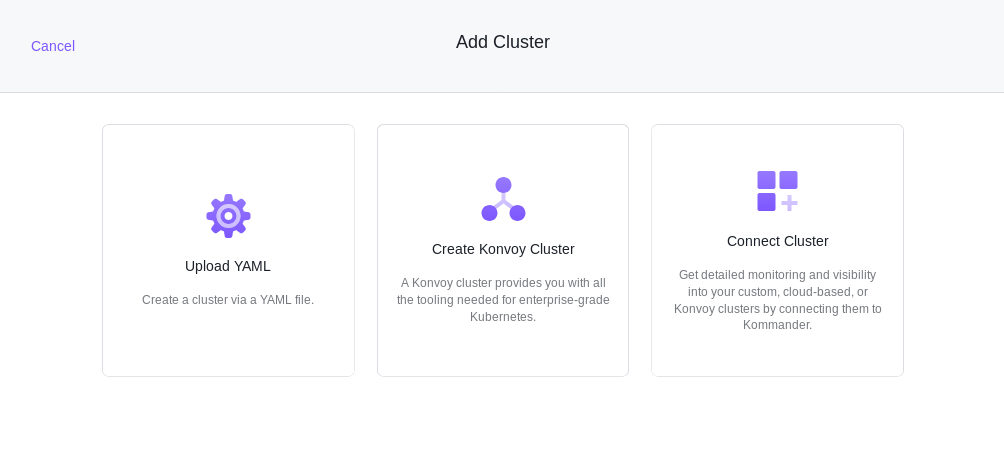
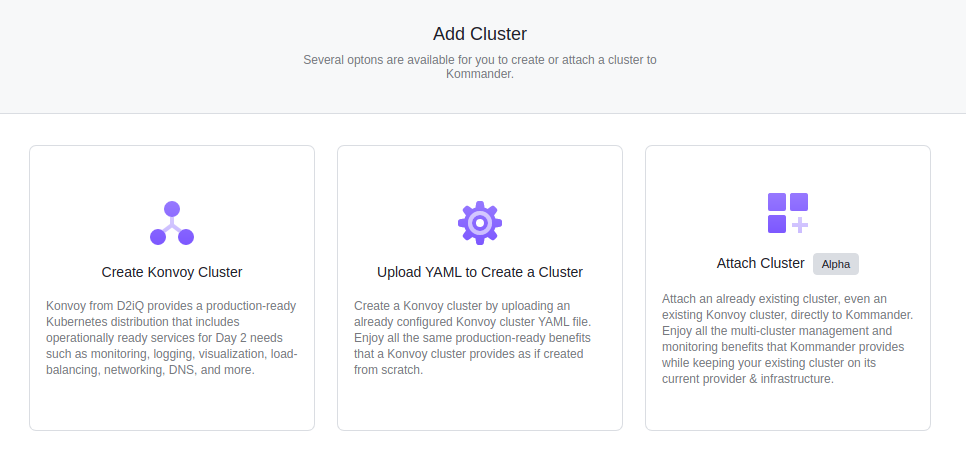
feat: cluster create breakout: aws, azure, on-prem

diff --git a/pages/ksphere/kommander/latest/clusters/index.md b/pages/ksphere/kommander/latest/clusters/index.md
@@ -14,25 +14,17 @@ From the dashboard page or the clusters page, click Add Cluster and Create Konvo
 
 ![Add Cluster Options](../../img/add-cluster.png)
 
+### Creating a Konvoy Cluster
+
+- [Creating Konvoy Clusters on AWS](/ksphere/kommander/latest/clusters/creating-konvoy-cluster-aws/)
+- [Creating Konvoy Clusters on Azure](/ksphere/kommander/latest/clusters/creating-konvoy-cluster-azure/)
+- [Creating Konvoy Clusters on your own infrastructure](/ksphere/kommander/latest/clusters/creating-konvoy-cluster-on-prem/)
+
 ### Connecting an Existing Cluster
 
-Clicking the Connect Cluster option will reveal a UI that accepts a kubeconfig file that you may either paste or upload into the form. You can select the intended context from the Context select list or change the display name provided with the config. Add labels to classify your cluster. Cluster labels are matched to the selectors created for projects. Changing a cluster’s labels may add or remove the cluster from projects.
+Using the Add Cluster option, you can attach an already existing cluster, even an existing Konvoy cluster, directly to Kommander. Enjoy all the multi-cluster management and monitoring benefits that Kommander provides while keeping your existing cluster on its current provider & infrastructure.
 
-![Add Cluster Connect](../../img/add-cluster-connect.png)
-
-### Creating a Konvoy Cluster via Form
-
-Konvoy can create managed clusters using any configured cloud providers. See the [Operations Cloud Providers](../operations/cloud-providers) section in order to start creating Konvoy clusters.
-
-You'll notice in the Create Konvoy Cluster form a variety of options for creating a cluster in your chosen cloud provider:
-
-- **Kubernetes Version**: Indicates the version of Kubernetes to install on the cluster.
-- **Select Provider**: Choose the cloud provider credentials to use to provision the cluster.
-- **Region/Availability Zones**: Indicates the datacenter regions and availability zones to use for cluster provisioning
-- **Name**: A display name for referencing the cluster
-- **Node Pool Config**: Allows you to specify pools of nodes, their size, and quantity. By default, a control plane pool containing 3 large nodes and a worker pool containing 4 xlarge nodes are suggested by default. Additionally, you can specify labels and node taints as part of each pool.
-- **Add Labels**: By default, your cluster will have some suggested labels applied to it that reflect the cloud provider provisioning. For example, in AWS your cluster may be labelled with the datacenter region as well as `provider: aws`. Cluster labels are matched to the selectors created for projects. Changing a cluster’s labels may add or remove the cluster from projects.
-- **Add Cloud Provider Tags**: Allows you specify tags to be set on all resources created in your cloud provider for this cluster. You can add up to 10 tags in this form. Different cloud providers have varying restrictions on their tags. See the [AWS Tags User Guide][aws_tags] for more information about using tags in AWS.
+See [Attach Cluster](/ksphere/kommander/latest/clusters/attach-cluster/)
 
 ### Creating a Konvoy Cluster via YAML
 
@@ -102,7 +94,7 @@ When you attach a cluster to Kommander that was not created with Kommander, you 
 For managed clusters created with Kommander, disconnecting the cluster is not an option, but it can be deleted. This completely removes the cluster and all of its cloud assets.
 
 <p class="message--warning"><strong>WARNING: </strong>
-If you delete the management (Konvoy) cluster, you won't be able to use Kommander to delete the managed clusters that were created by Kommander. Be sure and delete any managed clusters before finally deleting the Konvoy cluster if your intention is to delete all clusters. 
+If you delete the management (Konvoy) cluster, you won't be able to use Kommander to delete the managed clusters that were created by Kommander. Be sure and delete any managed clusters before finally deleting the Konvoy cluster if your intention is to delete all clusters.
 </p>
 
 ## Statuses

diff --git a/pages/ksphere/kommander/latest/clusters/creating-konvoy-cluster-azure/index.md b/pages/ksphere/kommander/latest/clusters/creating-konvoy-cluster-azure/index.md
@@ -1,0 +1,33 @@
+---
+layout: layout.pug
+navigationTitle: Creating Konvoy Clusters on Azure
+title: Creating Konvoy Clusters on Azure
+menuWeight: 7
+excerpt: A guide for creating Konvoy clusters on Azure
+---
+
+## Prerequisites
+
+Configured [Azure Cloud Provider](/ksphere/kommander/latest/operations/cloud-providers/#configuring-an-azure-cloud-provider)
+
+## Simplified Cluster Creation on Azure
+
+![Add Cluster Options](../../../img/add-cluster.png)
+
+From the Add Cluster menu, select the Create Konvoy Cluster and provide some basic cluster details:
+
+- **Workspace**: The workspace to which this cluster belongs
+- **Kubernetes Version**: Indicates the initial version of Kubernetes to install on the cluster.
+- **Name**: A display name for referencing the cluster
+
+Now select the preconfigured [Azure Cloud Provider](/ksphere/kommander/latest/operations/cloud-providers/#configuring-an-azure-cloud-provider) to display the remaining options that are specific to Azure.
+
+- **Region**: Select the datacenter region to reveal selectable Availability Zones. [Azure maintains multiple datacenters per region](azure-regions) to provide redundancy and availability.
+- **VNET Name**: A virtual network name in which to create this cluster.
+- **VNET Resource Group**: The resource group to which Azure assets will be assigned
+- **VNET Route Table**: HELP NEEDED
+- **Configure Node Pools**: Allows you to specify pools of nodes, their size, and quantity. By default, a control plane pool containing 3 Standard_DS3_v2 nodes and a worker pool containing 6 Standard_DS3_v2 nodes are suggested. Additionally, you can specify labels, node taints, and subnet ID's as part of each pool.
+- **Add Cloud Provider Tags**: Allows you specify tags to be set on all resources created in your cloud provider for this cluster. You can add up to 10 tags in this form. Different cloud providers have varying restrictions on their tags. See the [AWS Tags User Guide][aws_tags] for more information about using tags in AWS.
+- **Add Labels**: By default, your cluster will have some suggested labels applied to it that reflect the cloud provider provisioning. For example, in AWS your cluster may be labelled with the datacenter region as well as `provider: aws`. Cluster labels are matched to the selectors created for projects. Changing a cluster’s labels may add or remove the cluster from projects.
+
+[azure-regions]: https://azure.microsoft.com/en-us/global-infrastructure/regions/

diff --git a/pages/ksphere/kommander/latest/clusters/creating-konvoy-cluster-aws/index.md b/pages/ksphere/kommander/latest/clusters/creating-konvoy-cluster-aws/index.md
@@ -1,0 +1,33 @@
+---
+layout: layout.pug
+navigationTitle: Creating Konvoy Clusters on AWS
+title: Creating Konvoy Clusters on AWS
+menuWeight: 7
+excerpt: A guide for creating Konvoy clusters on AWS
+---
+
+## Prerequisites
+
+Configured [AWS Cloud Provider](/ksphere/kommander/latest/operations/cloud-providers/#configuring-an-aws-cloud-provider)
+
+## Simplified Cluster Creation on AWS
+
+![Add Cluster Options](../../../img/add-cluster.png)
+
+From the Add Cluster menu, select the Create Konvoy Cluster and provide some basic cluster details:
+
+- **Workspace**: The workspace to which this cluster belongs
+- **Kubernetes Version**: Indicates the initial version of Kubernetes to install on the cluster.
+- **Name**: A display name for referencing the cluster
+
+Now select the preconfigured [AWS Cloud Provider](/ksphere/kommander/latest/operations/cloud-providers/#configuring-an-aws-cloud-provider) to display the remaining options that are specific to AWS.
+
+- **Region**: Select the datacenter region to reveal selectable Availability Zones.
+- **Availability Zones**: Indicates the availability zones to use for cluster provisioning
+- **Configure Node Pools**: Allows you to specify pools of nodes, their size, and quantity. By default, a control plane pool containing 3 m5.xlarge nodes and a worker pool containing 4 m5.2xlarge nodes are suggested by default. Additionally, you can specify labels, node taints, and subnet ID's as part of each pool.
+- **Add Cloud Provider Tags**: Allows you specify tags to be set on all resources created in your cloud provider for this cluster. You can add up to 10 tags in this form. Different cloud providers have varying restrictions on their tags. See the [AWS Tags User Guide][aws_tags] for more information about using tags in AWS.
+- **Add Labels**: By default, your cluster will have some suggested labels applied to it that reflect the cloud provider provisioning. For example, in AWS your cluster may be labelled with the datacenter region as well as `provider: aws`. Cluster labels are matched to the selectors created for projects. Changing a cluster’s labels may add or remove the cluster from projects.
+
+[aws_tags]: https://docs.aws.amazon.com/AWSEC2/latest/UserGuide/Using_Tags.html
+
+Click the Continue button to begin provisioning the Konvoy cluster.

diff --git a/pages/ksphere/kommander/latest/clusters/attach-cluster/index.md b/pages/ksphere/kommander/latest/clusters/attach-cluster/index.md
@@ -1,0 +1,15 @@
+---
+layout: layout.pug
+navigationTitle: Attach Kubernetes Cluster
+title: Attach Cluster
+menuWeight: 7
+excerpt: A guide for attaching an existing Kubernetes cluster using kubeconfig
+---
+
+## Attach Kubernetes Cluster
+
+Using the Add Cluster option, you can attach an already existing cluster, even an existing Konvoy cluster, directly to Kommander. Enjoy all the multi-cluster management and monitoring benefits that Kommander provides while keeping your existing cluster on its current provider & infrastructure.
+
+Clicking the Connect Cluster option will reveal a UI that accepts a kubeconfig file that you may either paste or upload into the form. You can select the intended context from the Context select list or change the display name provided with the config. Add labels to classify your cluster.
+
+![Add Cluster Connect](../../img/add-cluster-connect.png)

diff --git a/pages/ksphere/kommander/latest/clusters/creating-konvoy-cluster-on-prem/index.md b/pages/ksphere/kommander/latest/clusters/creating-konvoy-cluster-on-prem/index.md
@@ -1,0 +1,13 @@
+---
+layout: layout.pug
+navigationTitle: Creating Konvoy Clusters on Premises
+title: Creating Konvoy Clusters on Premises
+menuWeight: 7
+excerpt: A guide for creating Konvoy clusters on your own premises' infrastructure
+---
+
+## Prerequisites
+
+Configured [On-Prem Provider](/ksphere/kommander/latest/operations/cloud-providers/#configuring-an-on-premise-provider)
+
+To start the Konvoy installation, you first need an Ansible inventory file in your current working directory to describe the hosts where you want to install Konvoy. Konvoy will automatically generate the skeleton of the inventory file for you during initialization:
